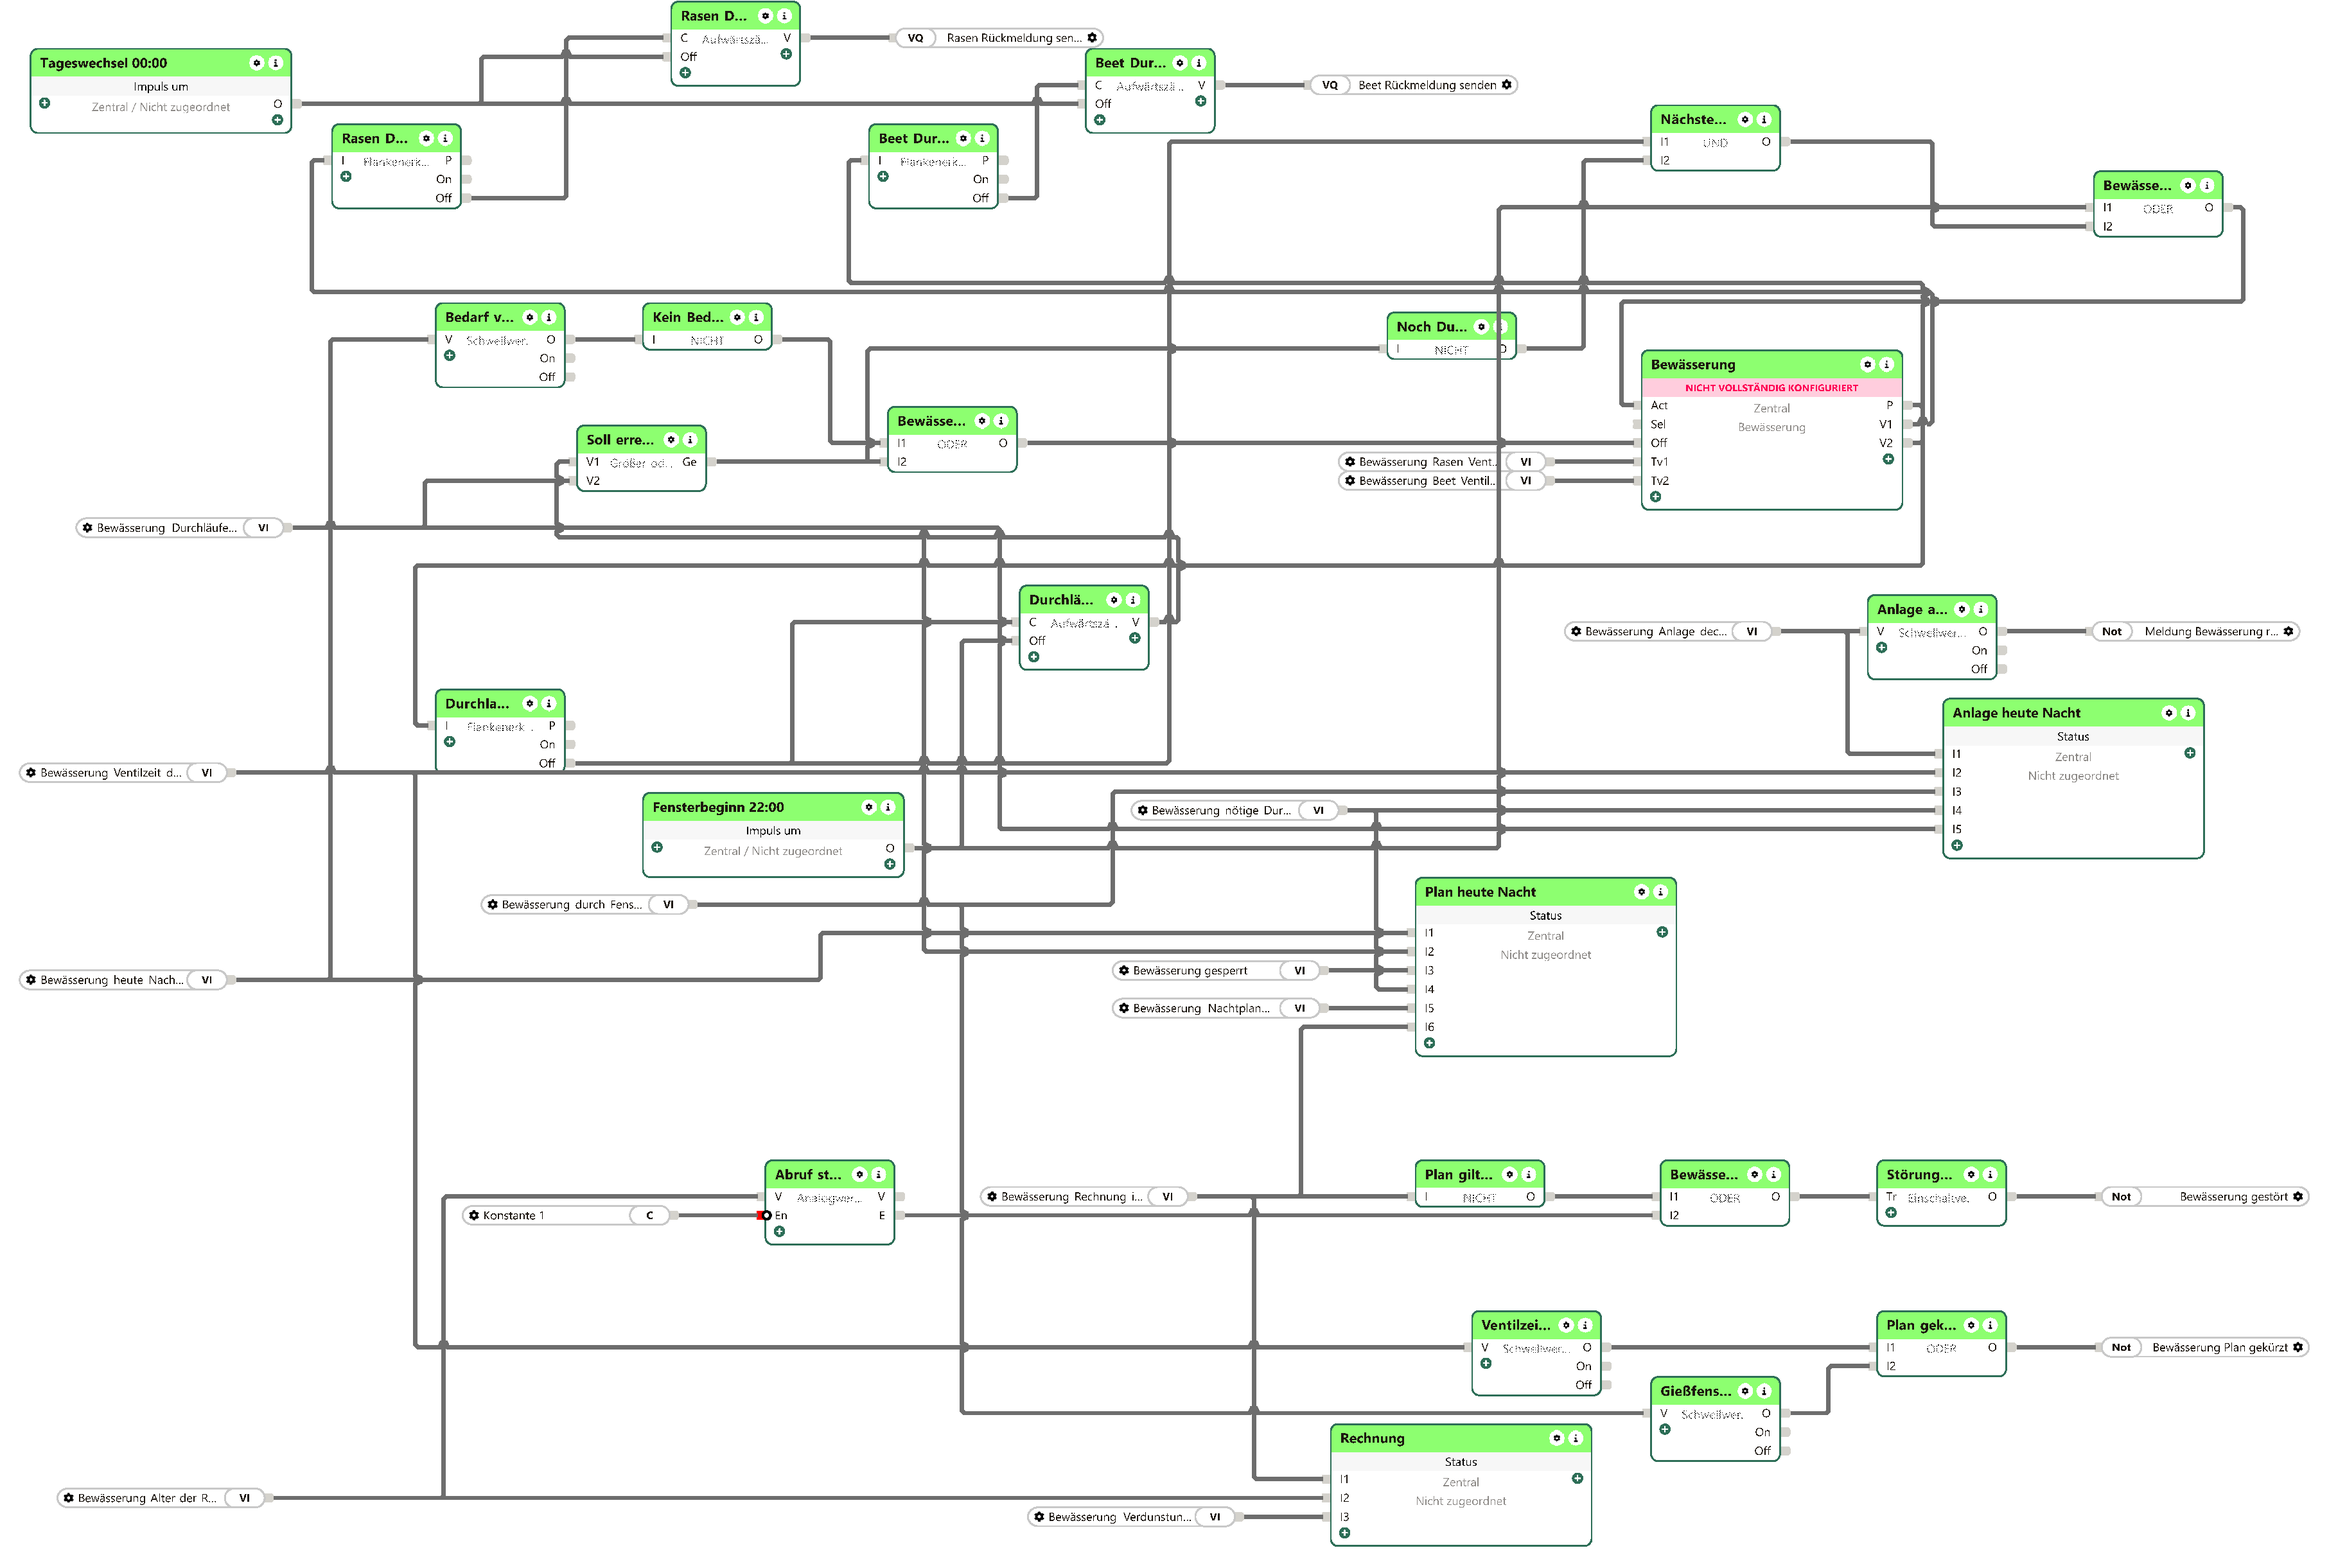
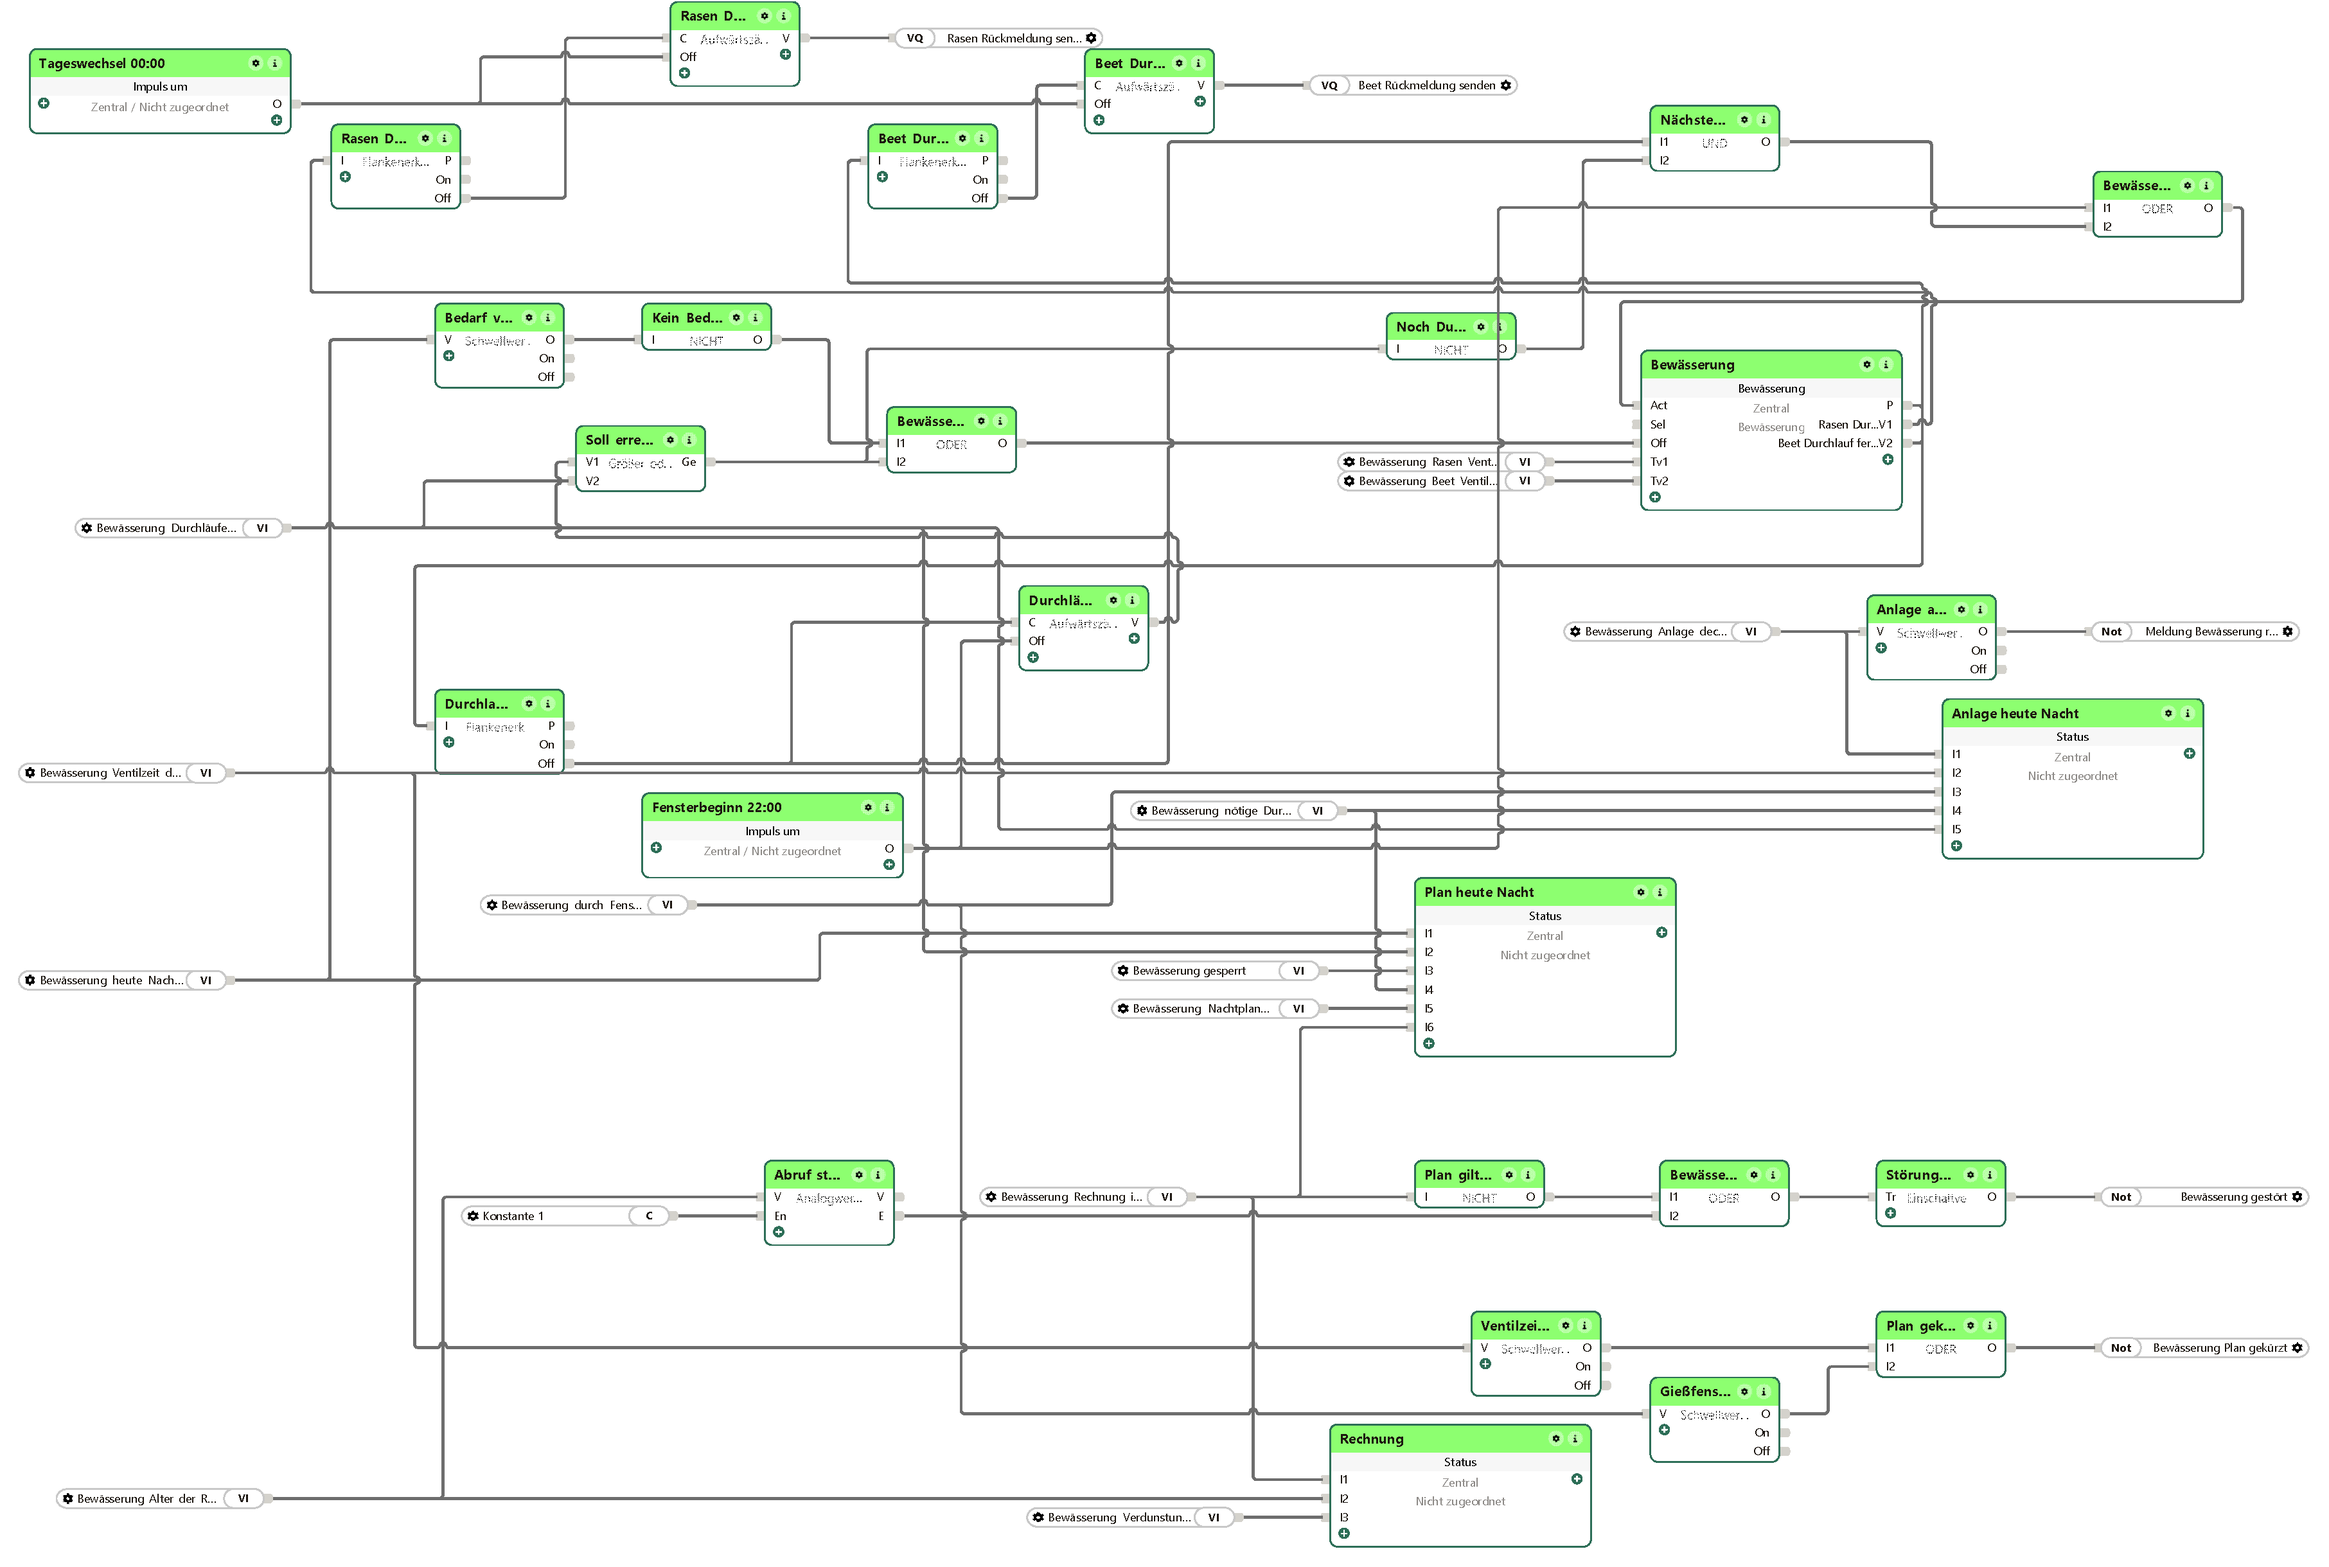
Bewaesserung 0.9.43: Einbindung: Eingang En der Analogwertvalidierung nicht negieren (Hinweis, Bild)
Einbindung in Loxone: Eingang En der Analogwertvalidierung nicht negieren (Hinweis und Bild); ohne diese Korrektur löste die Ausfallmeldung nie aus. Config legt den Eingang En negiert an – die Konstante 1 kam dann
als 0 an, und die Validierung #26 der Seite „Bewässerung“ prüfte die Zeit Tmc nicht. Wer die Seite schon gebaut hat: Haken bei ‚En‘ entfernen (Eigenschaftsfenster, Parameter). Das Bild zeigt den Eingang jetzt ohne
Negation. Plugin-Verhalten unverändert.

diff --git a/webfrontend/html/bw_lib.php b/webfrontend/html/bw_lib.php
@@ -2244,7 +2244,7 @@ function bw_baustein_seite($seite)
         'schritte' => array(bw_t('BAUSTEIN.A_S1'), bw_t('BAUSTEIN.A_S2'), bw_t('BAUSTEIN.A_S3'),
                             bw_t('BAUSTEIN.A_S4'), bw_t('BAUSTEIN.A_S5'), bw_t('BAUSTEIN.A_S6'),
                             bw_t('BAUSTEIN.A_S7'), bw_t('BAUSTEIN.A_S8'), bw_t('BAUSTEIN.A_S9')),
-        'hinweise' => array(bw_t('BAUSTEIN.A_H1'), bw_t('LOX.S3_ERLAEUTERUNG'),
+        'hinweise' => array(bw_t('BAUSTEIN.A_H1'), bw_t('BAUSTEIN.A_H7'), bw_t('LOX.S3_ERLAEUTERUNG'),
                             bw_t('BAUSTEIN.H_DURCHLAUF'), bw_t('BAUSTEIN.H_OFF'),
                             bw_t('BAUSTEIN.H_IMPULS'), bw_t('BAUSTEIN.A_H6'),
                             bw_t('BAUSTEIN.A_H5'), bw_t('BAUSTEIN.A_H2'),

diff --git a/README.md b/README.md
@@ -5,12 +5,18 @@ Standardverfahren **FAO-56**, wie viel Wasser der Boden je Zone verloren hat,
 zieht den erwarteten Regen der nächsten Tage ab und sagt Loxone, wie viele
 Durchläufe heute Nacht nötig sind.
 
-> **Fassung 0.9.42 — ungeprüft im Betrieb.** Die Rechnung selbst ist gegen das
+> **Fassung 0.9.43 — ungeprüft im Betrieb.** Die Rechnung selbst ist gegen das
 > veröffentlichte Rechenbeispiel aus FAO-56 geprüft; ob die Messwertzuordnung
 > zu Ihrer Wetterstation passt, zeigt erst der Betrieb. Diese Angabe stand bis
 > 0.9.6 auf „0.9.0“ und bis 0.9.18 auf „0.9.7“ — sechs
 > und dann elf Fassungen lang. Sie gehört zu den vier Stellen, die
 > `Werkzeuge/fassung_setzen.py` mitzieht.
+
+## Neu in 0.9.43
+
+Einbindung in Loxone: Eingang En der Analogwertvalidierung nicht negieren (Hinweis und Bild); ohne diese Korrektur löste die Ausfallmeldung nie aus. Config legt den Eingang En negiert an – die Konstante 1 kam dann
+als 0 an, und die Validierung #26 der Seite „Bewässerung“ prüfte die Zeit Tmc nicht. Wer die Seite schon gebaut hat: Haken bei ‚En‘ entfernen (Eigenschaftsfenster, Parameter). Das Bild zeigt den Eingang jetzt ohne
+Negation. Plugin-Verhalten unverändert.
 
 ## Neu in 0.9.42
 
